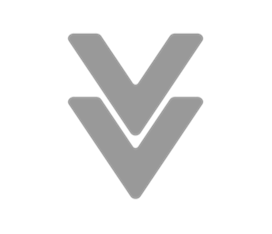
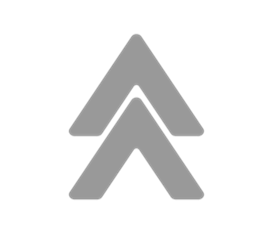
octavo commit

Changed region(s): [[0.2353, 0.1202, 0.7647, 0.8712]]

diff --git a/style/style_Index/style_Index_screenOrdenador.css b/style/style_Index/style_Index_screenOrdenador.css
@@ -11,75 +11,75 @@ header>img:first-of-type{
     max-width: 100%;
 }
 
-/* --- NAVBAR SOCIOS --- */ /* (Float) */
+    /* --- NAVBAR SOCIOS --- */ /* (Float) */
 
-#navbar_socios{
-    float: right;
-    list-style-type: none;
-    height: 50%;
-    width: 43%;
-    margin-top: 3%;
-}
+    #navbar_socios{
+        float: right;
+        list-style-type: none;
+        height: 50%;
+        width: 43%;
+        margin-top: 3%;
+    }
 
-#navbar_socios>li{
-    display: inline-block;
-    float: left;
-    margin-right: 5%;
-    width: auto;
-    height: auto;
-    font-size: 1.125rem;
-    border: 0.1vw solid rgb(255, 255, 255);
-    padding: 1vw;
-    border-radius: 20vw;
-}
+    #navbar_socios>li{
+        display: inline-block;
+        float: left;
+        margin-right: 5%;
+        width: auto;
+        height: auto;
+        font-size: 1.125rem;
+        border: 0.1vw solid rgb(255, 255, 255);
+        padding: 1vw;
+        border-radius: 20vw;
+    }
 
-#navbar_socios>li:first-child, #navbar_socios>li:nth-child(2){
-    border: 0.1vw outset silver;
-    background-color: #e4ebf3;
-    box-shadow: 3px 5px 18px rgb(211, 210, 211);
-}
-
-
-#cesta{
-    float:left;
-    width: 30%;
-    height: 30%;
-}
+    #navbar_socios>li:first-child, #navbar_socios>li:nth-child(2){
+        border: 0.1vw outset silver;
+        background-color: #e4ebf3;
+        box-shadow: 3px 5px 18px rgb(211, 210, 211);
+    }
 
 
-/* --- NAVBAR --- */
+    #cesta{
+        float:left;
+        width: 30%;
+        height: 30%;
+    }
 
-#navbar{
-    clear:both;
-    list-style-type: none;
-    margin-top: 2%;
-    width: 100%;
-    /* height: 10vh; */
-    /* padding: 2vw; */
-    text-align: center;
-    background-color: rgb(49, 83, 99);
-}
 
-#navbar>li{
-    display: inline-block;
-    margin-right: 8%;
-    margin-top: 1.2%;
-    font-size: 1.5rem;
-    color:rgb(253, 245, 236);
-}
+    /* --- NAVBAR --- */
 
-#navbar>li:first-child{
-    margin-left: 8%;
-}
+    #navbar{
+        clear:both;
+        list-style-type: none;
+        margin-top: 2%;
+        width: 100%;
+        /* height: 10vh; */
+        /* padding: 2vw; */
+        text-align: center;
+        background-color: rgb(49, 83, 99);
+    }
 
-#navbar>li>a{
-    color:rgb(253, 245, 236);
-    text-decoration: none;
-}
+    #navbar>li{
+        display: inline-block;
+        margin-right: 8%;
+        margin-top: 1.2%;
+        font-size: 1.5rem;
+        color:rgb(253, 245, 236);
+    }
 
-#navbar>li>a:hover{
-    font-weight: bold;
-}
+    #navbar>li:first-child{
+        margin-left: 8%;
+    }
+
+    #navbar>li>a{
+        color:rgb(253, 245, 236);
+        text-decoration: none;
+    }
+
+    #navbar>li>a:hover{
+        font-weight: bold;
+    }
 
 /* --- SECTION --- */
 
@@ -118,29 +118,34 @@ hr{
     /* --- CARRUSEL --- */  /* (Position) */
     
     #carrusel{
-        /* position: relative; */
-        /* display: inline-block; */
         width: 80%;
-        margin-left: auto;
-        margin-right: auto;
-        padding-top: 3%;
-        padding-bottom: 3%;
+        margin: 4% auto;
+        overflow: hidden;
+        text-align: left;
     }
 
-    #carrusel>div{
+    #carrusel-caja{ 
+        animation: automatizacion 15s infinite linear;
+        transition: all 0.75s ease;
+        height: 300px;
+        width: 300%;
+    }
+
+    #carrusel img{
+        /* position: relative; */
+        width: 100%;
+        height: 300px;   
+    }
+
+    .carrusel-elemento {
+        float: left;
+        width: 33.333%;
         position: relative;
-        width: 100%;    
     }
 
-    #carrusel>div>img{
-        position: relative;
-        width: 100%;    
-    }
-
-    #carrusel>div>p{
+    .carrusel-elemento>p{
         width: auto;
         height: auto;
-        /* max-height: 80%; */
         line-height: 160%;
         color: rgb(187, 15, 55);
         font-size: 2.45rem;
@@ -149,6 +154,56 @@ hr{
         position: absolute;
         top: 3%;
         left: 3%;
+    }
+
+    .carrusel-elemento>p>span{
+        font-size: 1.3rem;
+        padding:2%;
+        border: 0.1vw outset rgb(49, 83, 99, 0.809);
+        border-radius: 20vw;
+        background-color: rgba(49, 83, 99, 0.809);
+        color: rgb(253, 245, 236);
+        font-weight: 700;
+    }
+
+    .carrusel-elemento:last-child>p{
+        width: 100%;
+        height: 15%;
+        color: rgb(253, 245, 236);
+        text-align: center;
+        background-color: rgba(49, 83, 99, 0.809);
+        top: 42%;
+        left: 0;
+    }
+
+    @keyframes automatizacion{ /*@keyframes permite establecer unos rangos en la secuencia de la animación para el desplazamiento de las imágenes*/
+        0% {
+            margin-left: 0;
+        }
+    
+        30% {
+            margin-left: 0;
+        }
+    
+        35% {
+            margin-left: -100%;
+        }
+    
+        65% {
+            margin-left: -100%;
+        }
+    
+        70% {
+            margin-left: -200%;
+        }
+    
+        95% {
+            margin-left: -200%;
+        }
+    
+        100% {
+            margin-left: 0;
+        }
     }
 
     /* --- LIBROS --- */ /* (Flex) */
@@ -341,6 +396,17 @@ hr{
         margin-bottom: 4%;   
     }
 
+    /* --- FLECHAS VOLVER A INICIO --- */
+    section>a:last-child{
+        display: block;
+        width: 4%;
+        margin-left: auto;
+        margin-right: auto;
+    }
+
+    section>a:last-child>img{
+        width: 100%;
+    }
 
 /* --- FOOTER --- */
 

diff --git a/index.html b/index.html
@@ -9,7 +9,7 @@
     <link href="./style/style_Index.css" rel="stylesheet" type="text/css">
 </head>
 <body>
-    <header>
+    <header id="Inicio">
         <div id="desplegable"></div>
         <img src="./images/logo_libro.png" alt="Logo Página Web: Libro gigante con personas alrededor trabajando en él.">
         <ul id="navbar_socios">
@@ -28,9 +28,19 @@
     </nav>
     <section>
         <div id="carrusel">
-            <div>
-            <img src="./images/home_web_mes_del_libro.jpg" alt="">
-            <p>Feliz mes del Libro<br>5% de dto. y envío gratis*<br>Exclusivo Socios</p>
+            <div id="carrusel-caja">
+                <div class="carrusel-elemento">
+                    <img src="./images/carrusel_01.jpg" alt="">
+                    <p>Feliz mes del Libro<br>5% de dto. y envío gratis*<br>Exclusivo Socios</p>
+                </div>
+                <div class="carrusel-elemento">
+                    <img src="./images/carrusel_02.jpg" alt="">
+                    <p>Celebra el día de la madre regalando historias<br><span>Consulta nuestra selección</span></p>
+                </div>
+                <div class="carrusel-elemento">
+                    <img src="./images/carrusel_03.jpg" alt="">
+                    <p>Celebra el Día del Libro en la Cuesta de Moyano</p>
+                </div>
             </div>
         </div>
         <div id="libros">
@@ -132,6 +142,9 @@
                 </div>
             </div>
         </div>
+        <a href="#Inicio">
+            <img src="./images/flechas-grises.png" alt="Flechas dobles grises para volver al principio de página">
+        </a>
     </section>
     <footer>
         <img id="img_footer" src="./images/logos_Redes.png" alt="Logos enlaces a los perfiles de +L en las distintas redes sociales">

diff --git a/style/style_Contacto/style_Contacto_screenMovil.css b/style/style_Contacto/style_Contacto_screenMovil.css
@@ -42,12 +42,12 @@ x
         content: url(../../images/navbarIcon.png);
     }
 
-    #navbarIcon:after {
+    /* #navbarIcon:after {
         content: "MENÚ ";
         color: rgb(253, 245, 236);
         font-size: 0.7rem;
         font-weight: 600;
-    }
+    } */
 
     #desplegable:hover #navbar{
         display: block;

diff --git a/style/style_MasVendidos/style_masVendidos_screenMovil.css b/style/style_MasVendidos/style_masVendidos_screenMovil.css
@@ -271,7 +271,7 @@ span{
 
 .descuento{
     font-size: 1rem;
-    width: 43%;
+    width: 50%;
     align-self: center;
     background-color: rgb(187, 15, 55);
     color: rgb(253, 245, 236);
